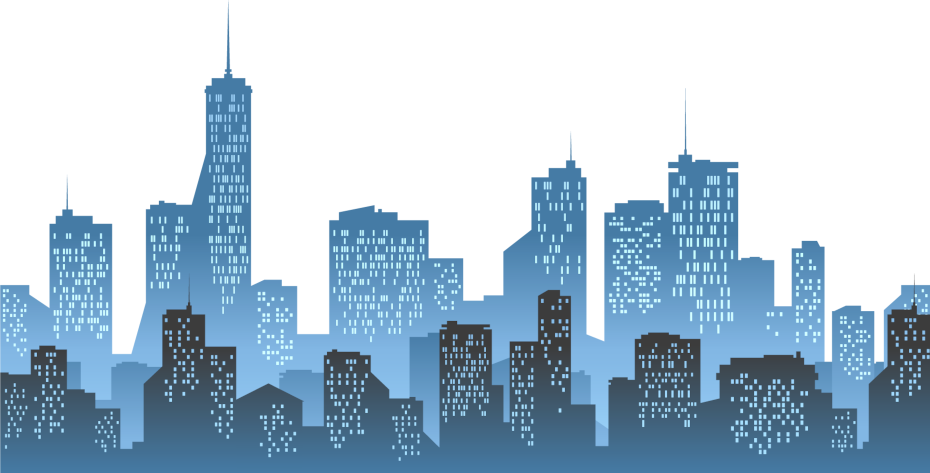
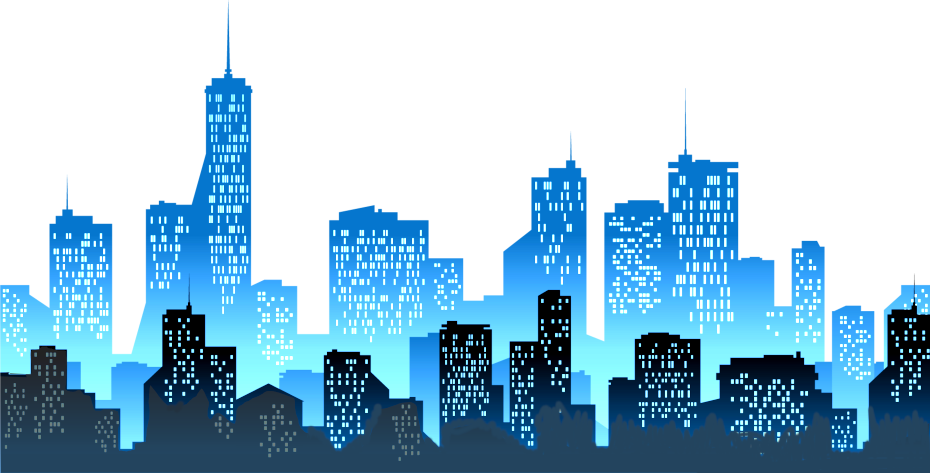
FF Background extension 3 skyline

diff --git a/other/fight-final/level.js b/other/fight-final/level.js
@@ -1,6 +1,6 @@
 class MainScene extends Phaser.Scene {
     static TILE_WIDTH = 60;
-    static PLAYER_SPEED = 5;
+    static PLAYER_SPEED = 25;
     static CURRENT_ID = 1;
 
     constructor(name) {
@@ -107,6 +107,18 @@ class MainScene extends Phaser.Scene {
                 texture = i == 17 ? 'building-end' : 'window-wall';
                 const sprite = this.add.sprite(x, this.sys.canvas.height - 385 + 5, texture);
                 sprite.setDepth(-5);
+                this.spriteGroup.add(sprite);
+            }
+
+	        for (let i = 19; i < 28; i++) {
+                let x = i * tileWidth + shift;
+                let texture = 'fence';
+                let sprite = this.add.sprite(x, this.sys.canvas.height - 385 + 5, texture);
+                sprite.setDepth(-6);
+                this.spriteGroup.add(sprite);
+                texture = 'skyline';
+                sprite = this.add.sprite(x, this.sys.canvas.height - 385 + 5, texture);
+                sprite.setDepth(-7);
                 this.spriteGroup.add(sprite);
             }
         }

diff --git a/other/fight-final/manager.js b/other/fight-final/manager.js
@@ -8,6 +8,8 @@ class Manager {
 		this.scene.load.image('floor', 'floor.png');
 		this.scene.load.image('door-wall', 'door-wall.png');
 		this.scene.load.image('window-wall', 'window-wall.png');
+		this.scene.load.image('skyline', 'skyline.png');
+		this.scene.load.image('fence', 'barbed-wire2.png');
         this.scene.load.image('building-end', 'building-end.png');
         this.scene.load.image('wreck', 'wreck.png');
 
